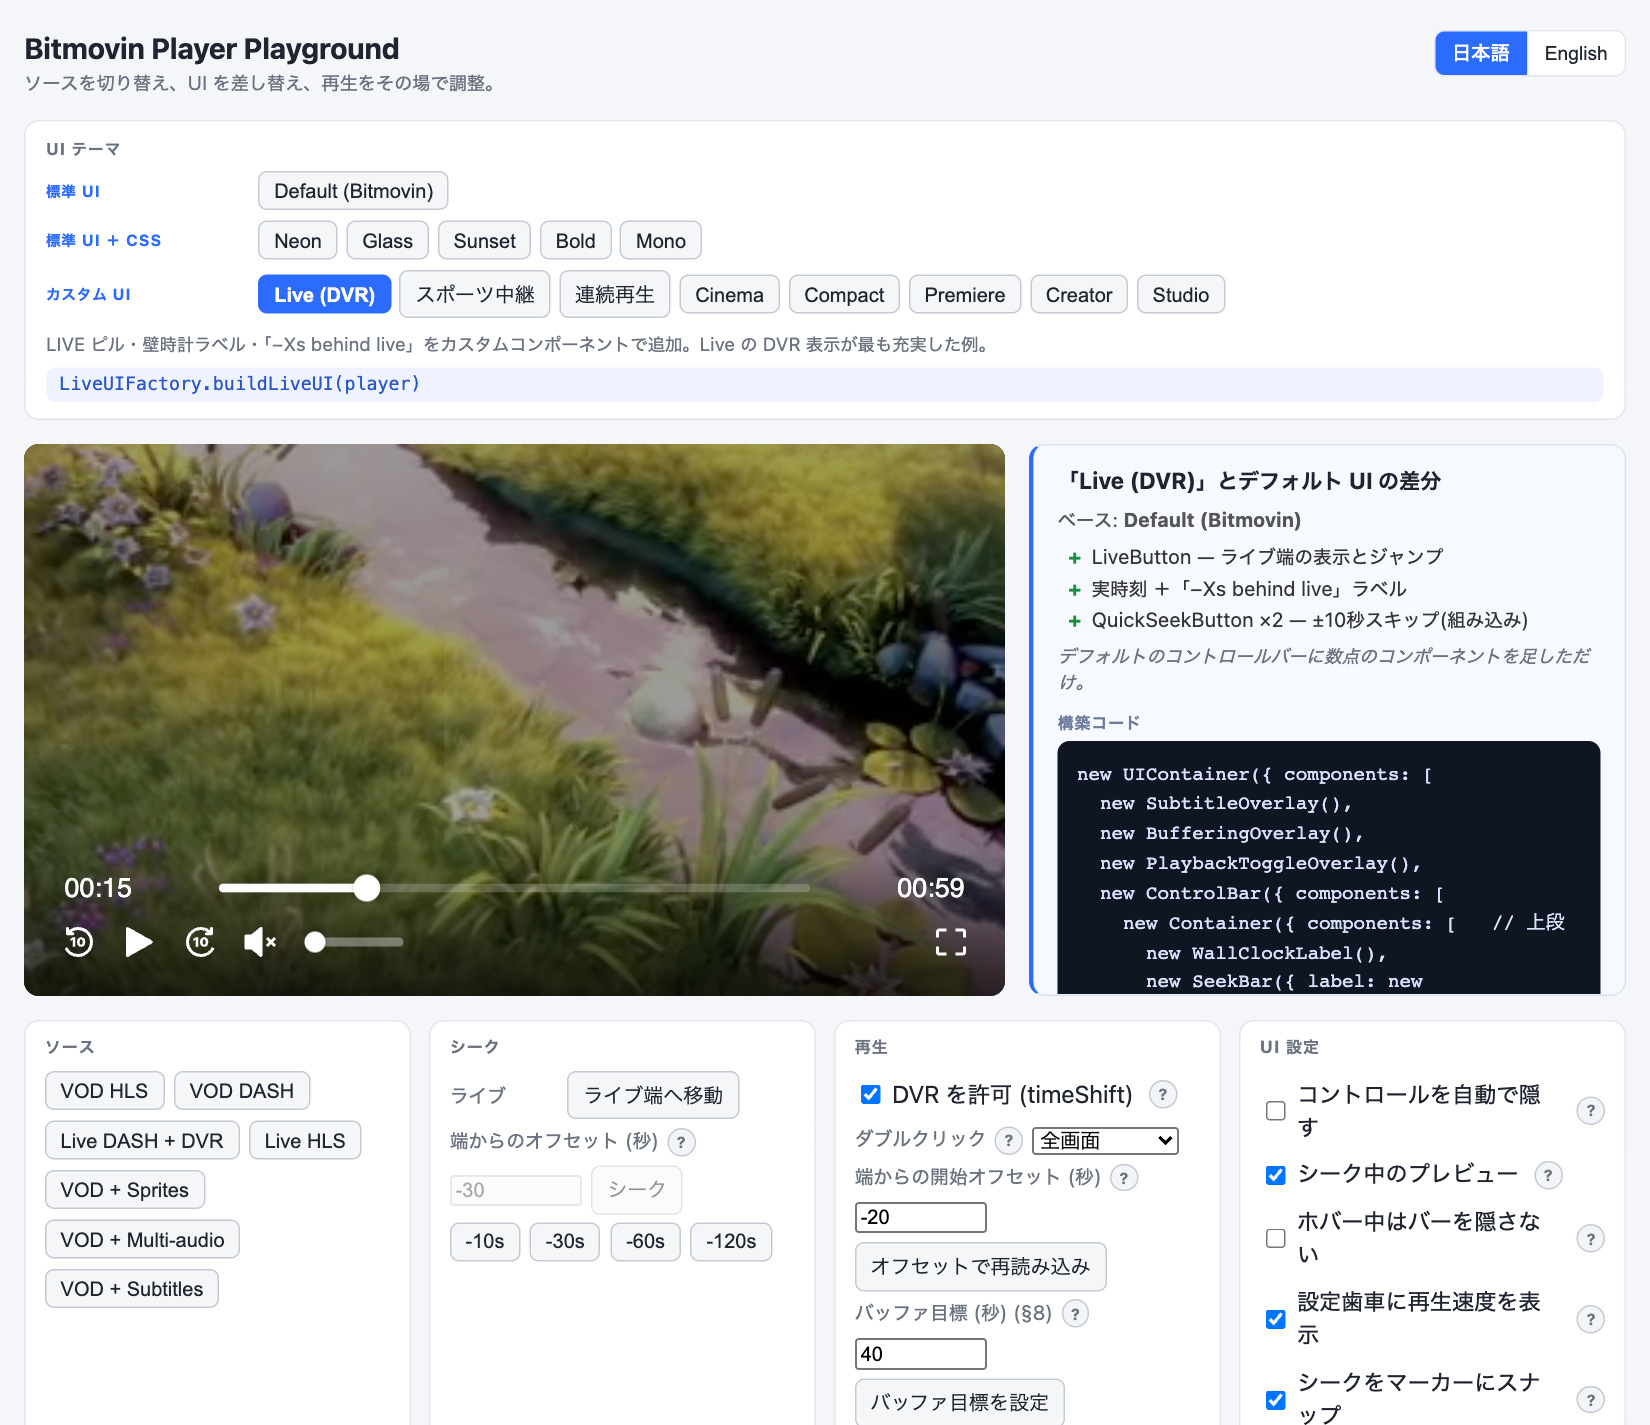
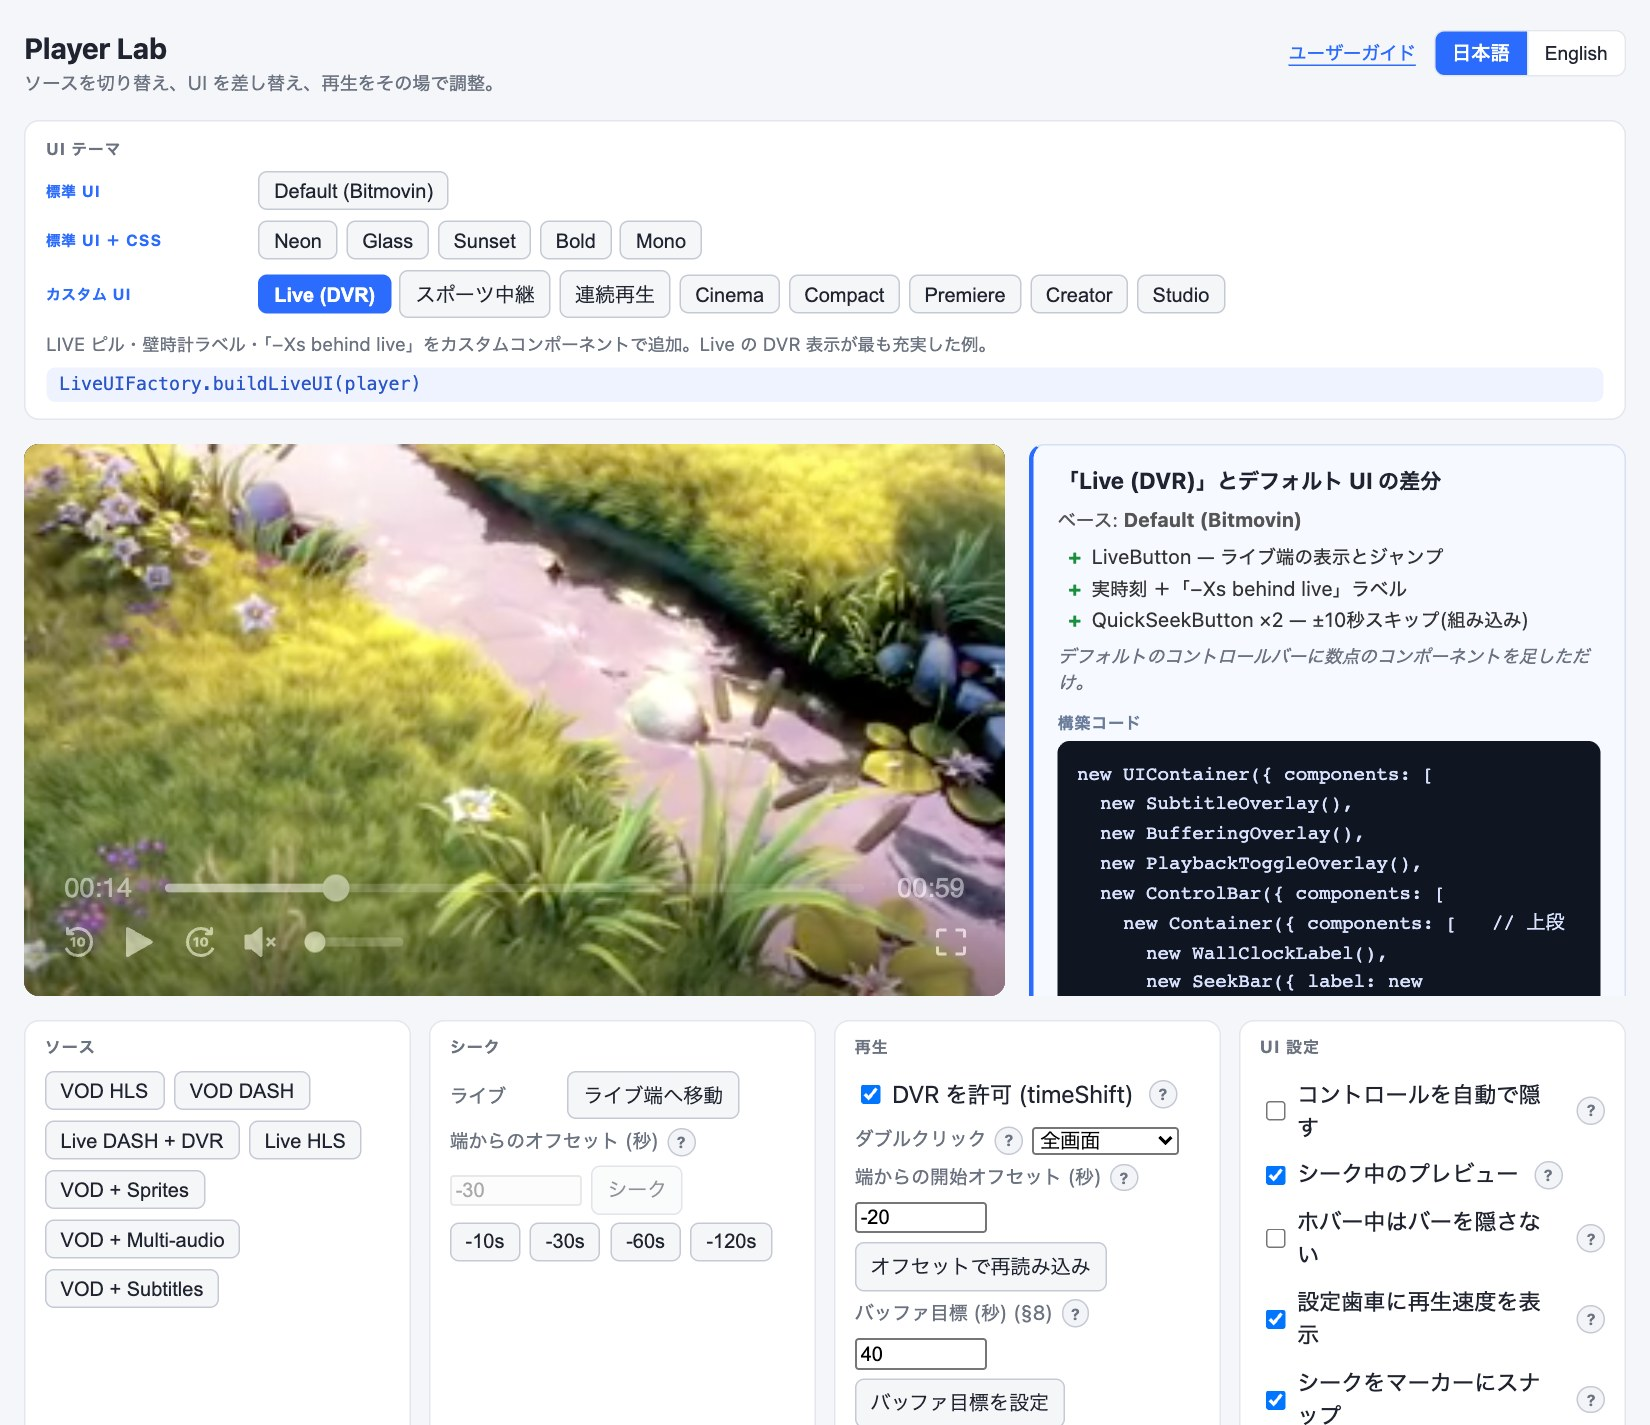
Use Player Lab consistently in the Web app (#51)
* fix(web): unify app branding as Player Lab

* docs(web): refresh screenshots with Player Lab title

diff --git a/apps/web/src/guide.ts b/apps/web/src/guide.ts
@@ -1,7 +1,7 @@
 /**
  * Standalone "Player UI Customization Guide" page (apps/web/guide.html).
  *
- * The playground's right-hand panels are necessarily terse; this page is the long-form
+ * Player Lab's right-hand panels are necessarily terse; this page is the long-form
  * companion — the architecture, the customization layers with real snippets, a component
  * catalogue, styling, configuration, and the cross-platform story — bilingual (JA/EN),
  * cross-referenced to the official Bitmovin docs and the player-ui source.
@@ -48,8 +48,8 @@ const SECTIONS: Section[] = [
       {
         kind: "p",
         text: {
-          ja: "プレイグラウンドでは、同じプレイヤーに対してUIを実行時に差し替えます。テーマは実装方法ごとに分類され、選択したテーマのコードは「構築コード」パネルに表示されます。このガイドでは、その仕組みと独自のUIを作る手順を説明します。",
-          en: "The playground swaps UI builds against the same player at runtime, grouped by implementation technique. The construction-code panel shows the selected theme's source. This guide explains that mechanism and the steps for building a custom UI.",
+          ja: "Player Labでは、同じプレイヤーに対してUIを実行時に差し替えます。テーマは実装方法ごとに分類され、選択したテーマのコードは「構築コード」パネルに表示されます。このガイドでは、その仕組みと独自のUIを作る手順を説明します。",
+          en: "Player Lab swaps UI builds against the same player at runtime, grouped by implementation technique. The construction-code panel shows the selected theme's source. This guide explains that mechanism and the steps for building a custom UI.",
         },
       },
     ],
@@ -107,8 +107,8 @@ const ui2 = createUi(anotherContainer);`,
         kind: "callout",
         tone: "tip",
         text: {
-          ja: "プレイヤー本体の挙動(自動再生・バッファ・ABR・DVR など)は PlayerConfig 側、見た目と操作は UI 側。混同しないことがカスタマイズの第一歩です。プレイグラウンドの「Player Config」パネルが前者、このガイドが後者です。",
-          en: "Player behavior (autoplay, buffering, ABR, DVR…) lives in PlayerConfig; look and controls live in the UI. Keeping the two apart is the first step to customizing. The playground's “Player Config” panel is the former; this guide is the latter.",
+          ja: "プレイヤー本体の挙動(自動再生・バッファ・ABR・DVR など)は PlayerConfig 側、見た目と操作は UI 側。混同しないことがカスタマイズの第一歩です。Player Labの「Player Config」パネルが前者、このガイドが後者です。",
+          en: "Player behavior (autoplay, buffering, ABR, DVR…) lives in PlayerConfig; look and controls live in the UI. Keeping the two apart is the first step to customizing. Player Lab's “Player Config” panel is the former; this guide is the latter.",
         },
       },
     ],
@@ -217,8 +217,8 @@ new UIManager(player, [{ ui: container, identifier: UIVariantIdentifier.main }])
         kind: "callout",
         tone: "tip",
         text: {
-          ja: "「足す/消す/並べ替える」はこの配列を編集するだけ。プレイグラウンドの各テーマ(Live / Cinema / Premiere…)は、この同じ ControlBar を別の並びにしただけのものです。右の構築コードと見比べてください。",
-          en: "“Add / remove / reorder” is just editing this array. Every playground theme (Live / Cinema / Premiere…) is the same ControlBar in a different arrangement — compare them against the construction-code panel.",
+          ja: "「足す/消す/並べ替える」はこの配列を編集するだけ。Player Labの各テーマ(Live / Cinema / Premiere…)は、この同じ ControlBar を別の並びにしただけのものです。右の構築コードと見比べてください。",
+          en: "“Add / remove / reorder” is just editing this array. Each Player Lab theme (Live / Cinema / Premiere…) is the same ControlBar in a different arrangement — compare them against the construction-code panel.",
         },
       },
     ],
@@ -402,8 +402,8 @@ new UIContainer({ components: [ controlBar, settingsPanel ] });`,
         kind: "callout",
         tone: "tip",
         text: {
-          ja: "選択肢が1つもない項目(例:単一画質のソースでの画質)は自動で隠れます。再生速度の項目は UIConfig.playbackSpeedSelectionEnabled が false だと隠れます — プレイグラウンドの「UI settings」でこの挙動を試せます。",
-          en: "An item with no real choices (e.g. quality on a single-rendition source) auto-hides. The speed item hides when UIConfig.playbackSpeedSelectionEnabled is false — try it in the playground's “UI settings”.",
+          ja: "選択肢が1つもない項目(例:単一画質のソースでの画質)は自動で隠れます。再生速度の項目は UIConfig.playbackSpeedSelectionEnabled が false だと隠れます — Player Labの「UI settings」でこの挙動を試せます。",
+          en: "An item with no real choices (e.g. quality on a single-rendition source) auto-hides. The speed item hides when UIConfig.playbackSpeedSelectionEnabled is false — try it in Player Lab's “UI settings”.",
         },
       },
     ],
@@ -468,8 +468,8 @@ player.on(PlayerEvent.PlaybackFinished, () => { /* … */ });
             en: "Naming — `cssClass: \"ui-livebutton\"` → `.bmpui-ui-livebutton`. State classes are prefixed too (`.bmpui-on` / `.bmpui-off` / `.bmpui-hidden`, plus your own like `.bmpui-at-live-edge`).",
           },
           {
-            ja: "再スキンの足場 — ルートに `extraCssClasses: [\"ui-skin-neon\"]` を足し、`.bmpui-ui-skin-neon …` で配下を上書き。構造は一切触らない(プレイグラウンドの Neon / Glass / Sunset / Bold / Mono がこれ)。",
-            en: "Re-skin hook — add `extraCssClasses: [\"ui-skin-neon\"]` at the root and override descendants under `.bmpui-ui-skin-neon …`. No structure changes (the playground's Neon / Glass / Sunset / Bold / Mono are this).",
+            ja: "再スキンの足場 — ルートに `extraCssClasses: [\"ui-skin-neon\"]` を足し、`.bmpui-ui-skin-neon …` で配下を上書き。構造は一切触らない(Player Labの Neon / Glass / Sunset / Bold / Mono がこれ)。",
+            en: "Re-skin hook — add `extraCssClasses: [\"ui-skin-neon\"]` at the root and override descendants under `.bmpui-ui-skin-neon …`. No structure changes (Player Lab's Neon / Glass / Sunset / Bold / Mono are this).",
           },
         ],
       },
@@ -657,7 +657,7 @@ new UIManager(player, [{ ui: uiContainer, identifier: UIVariantIdentifier.tv, sp
       {
         kind: "recipe",
         title: { ja: "コントロールを常時表示にする", en: "Keep controls always visible" },
-        note: { ja: "UIContainer.hideDelay を -1 に(プレイグラウンドの Autohide オフと同じ)。", en: "Set UIContainer.hideDelay to -1 (same as the playground's Autohide off)." },
+        note: { ja: "UIContainer.hideDelay を -1 に(Player Labの Autohide オフと同じ)。", en: "Set UIContainer.hideDelay to -1 (same as Player Lab's Autohide off)." },
         lang: "ts",
         code: `new UIContainer({ components: [/* … */], hideDelay: -1 });`,
       },
@@ -740,7 +740,7 @@ const TAGLINE: L = {
   ja: "Bitmovin Player UI で何をどう変えられるか — 詳細版。",
   en: "What you can change in the Bitmovin Player UI, and how — the long form.",
 };
-const BACK: L = { ja: "プレイグラウンドに戻る", en: "Back to the playground" };
+const BACK: L = { ja: "Player Labに戻る", en: "Back to Player Lab" };
 
 function renderLangToggle(): void {
   langToggleEl.innerHTML = "";

diff --git a/site/index.html b/site/index.html
@@ -49,13 +49,13 @@
             <a class="text-link" href="guide/">User guide</a>
           </div>
         </div>
-        <p class="hero-note">A Bitmovin Player playground for the Web, with examples
+        <p class="hero-note">Player Lab for the Web, with examples
           for iOS, Android, React Native, and Vega OS. Start with the existing
           player controls and see how a setting changes playback.</p>
         <figure class="app-preview">
           <a href="assets/player-preview.jpg" aria-label="Open the full application screenshot">
             <img src="assets/player-preview.jpg" width="1560" height="1120"
-              alt="The existing Web playground with its Premiere theme, sprite preview, source controls, and interface construction code."
+              alt="Player Lab for the Web with its Premiere theme, sprite preview, source controls, and interface construction code."
               fetchpriority="high" decoding="async">
           </a>
           <figcaption>

diff --git a/apps/web/index.html b/apps/web/index.html
@@ -4,13 +4,13 @@
     <meta charset="UTF-8" />
[1 lines of base64/hex data omitted]
     <meta name="viewport" content="width=device-width, initial-scale=1.0" />
-    <title>Bitmovin Player Playground</title>
+    <title>Player Lab</title>
   </head>
   <body>
     <main id="app">
       <header class="app-header">
         <div class="app-title">
-          <h1>Bitmovin Player Playground</h1>
+          <h1>Player Lab</h1>
           <p class="app-tagline" id="app-tagline"></p>
         </div>
         <div class="app-header-actions">

diff --git a/apps/web/guide.html b/apps/web/guide.html
@@ -4,7 +4,7 @@
     <meta charset="UTF-8" />
[1 lines of base64/hex data omitted]
     <meta name="viewport" content="width=device-width, initial-scale=1.0" />
-    <title>Player UI Customization Guide — Bitmovin Player Playground</title>
+    <title>Player UI Customization Guide — Player Lab</title>
   </head>
   <body>
     <main id="app">

diff --git a/tests/e2e/specs/app-ui.spec.ts b/tests/e2e/specs/app-ui.spec.ts
@@ -726,7 +726,7 @@ test.describe("Web app UI", () => {
     await expect(page.locator(".bmpui-ui-recommendation-overlay")).toHaveCount(0);
   });
 
-  test("the customization guide is a standalone page linked from the playground", async ({ page }) => {
+  test("the customization guide is a standalone page linked from Player Lab", async ({ page }) => {
     await page.goto(`${APP}/`);
     const link = page.locator("#ui-guide .ui-guide-link");
     await expect(link).toBeVisible();

diff --git a/apps/web/vite.config.ts b/apps/web/vite.config.ts
@@ -77,7 +77,7 @@ export default defineConfig(({ mode }) => {
     build: {
       target: "es2021",
       chunkSizeWarningLimit: 3000,
-      // Multi-page: the player playground (index) + a standalone customization guide.
+      // Multi-page: the Web app (index) + a standalone customization guide.
       rollupOptions: {
         input: {
           main: fileURLToPath(new URL("./index.html", import.meta.url)),

diff --git a/scripts/test-pages-package.py b/scripts/test-pages-package.py
@@ -33,7 +33,7 @@ class PagesPackageTests(unittest.TestCase):
         for name in GUIDE_FILES:
             self.write(self.guide, name, b'[]' if name.endswith('.json') else b'public guide')
         self.write(self.web, 'index.html', b'<script type="module" src="/player-lab/web/assets/main-12345678.js"></script>')
-        self.write(self.web, 'guide.html', b'<a href="./index.html">Playground</a>')
+        self.write(self.web, 'guide.html', b'<a href="./index.html">Player Lab</a>')
         self.write(self.web, 'assets/main-12345678.js', b'console.log("public");')
         self.write(self.web, 'assets/main-12345678.css', b'body { color: black; }')
         for name in ['PROJECT-LICENSE.txt', 'BITMOVIN-PLAYER-UI-LICENSE.txt',

diff --git a/docs/bitmovin-feature-coverage.md b/docs/bitmovin-feature-coverage.md
@@ -4,7 +4,7 @@ This guide describes the examples included in the apps. An available control or
 compiled SDK call is not proof that every browser, device, stream, or account
 supports that feature.
 
-## Web playground
+## Web app
 
 | Area | What to try |
 | --- | --- |

diff --git a/apps/web/README.md b/apps/web/README.md
@@ -1,4 +1,4 @@
-# Web player playground
+# Player Lab for the Web
 
 The existing Bitmovin Web Player app includes a source and API control panel,
 interface themes, PlayerConfig and SourceConfig settings, named Tweaks
